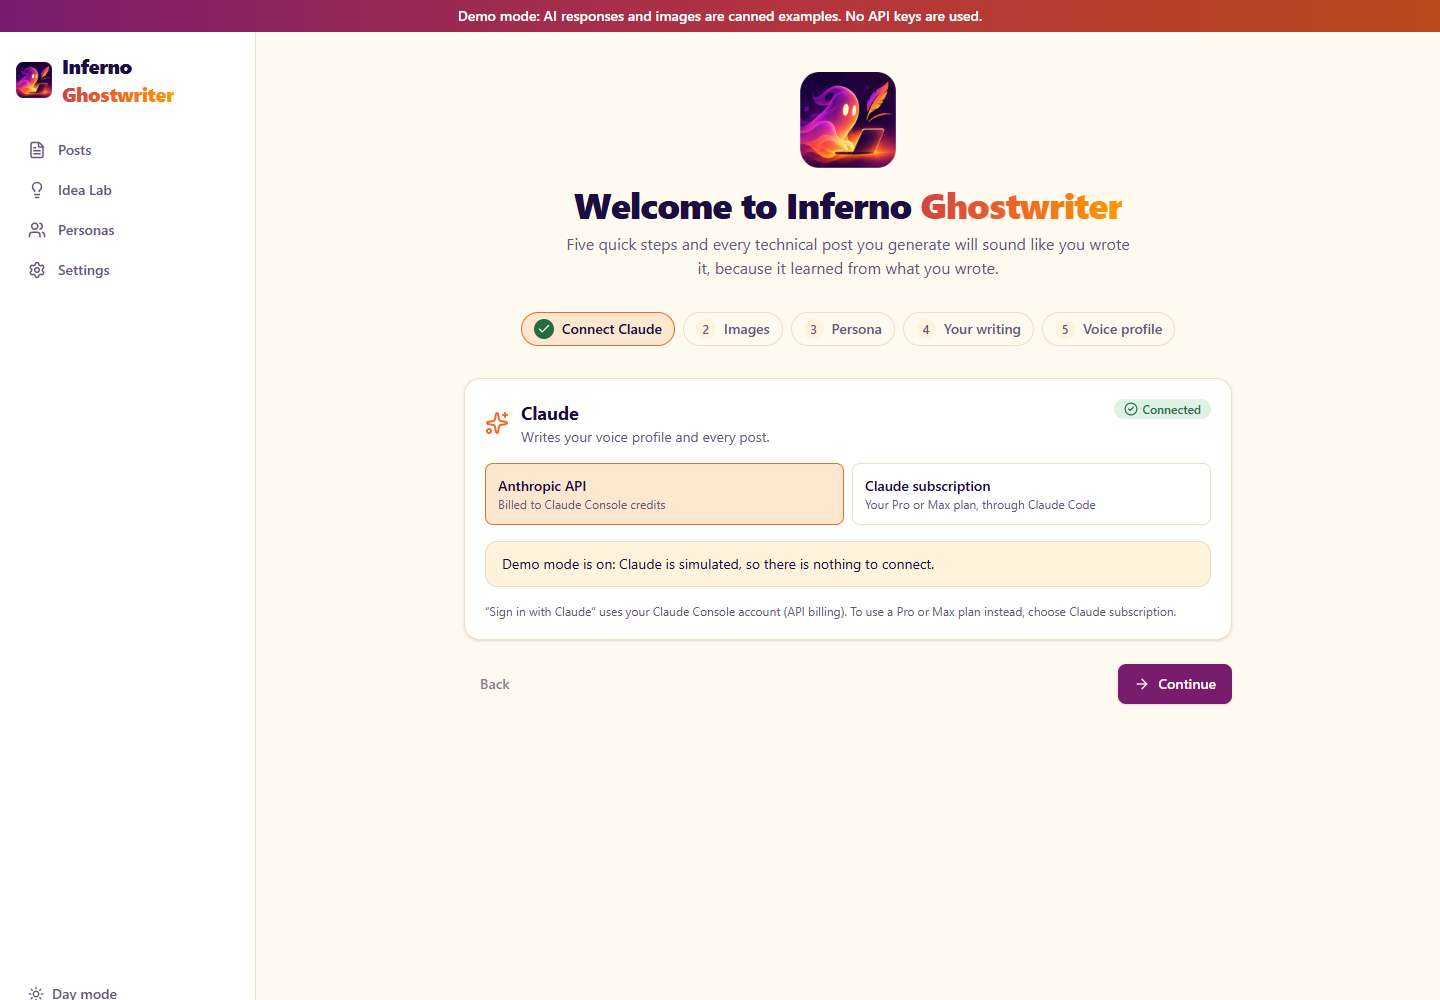
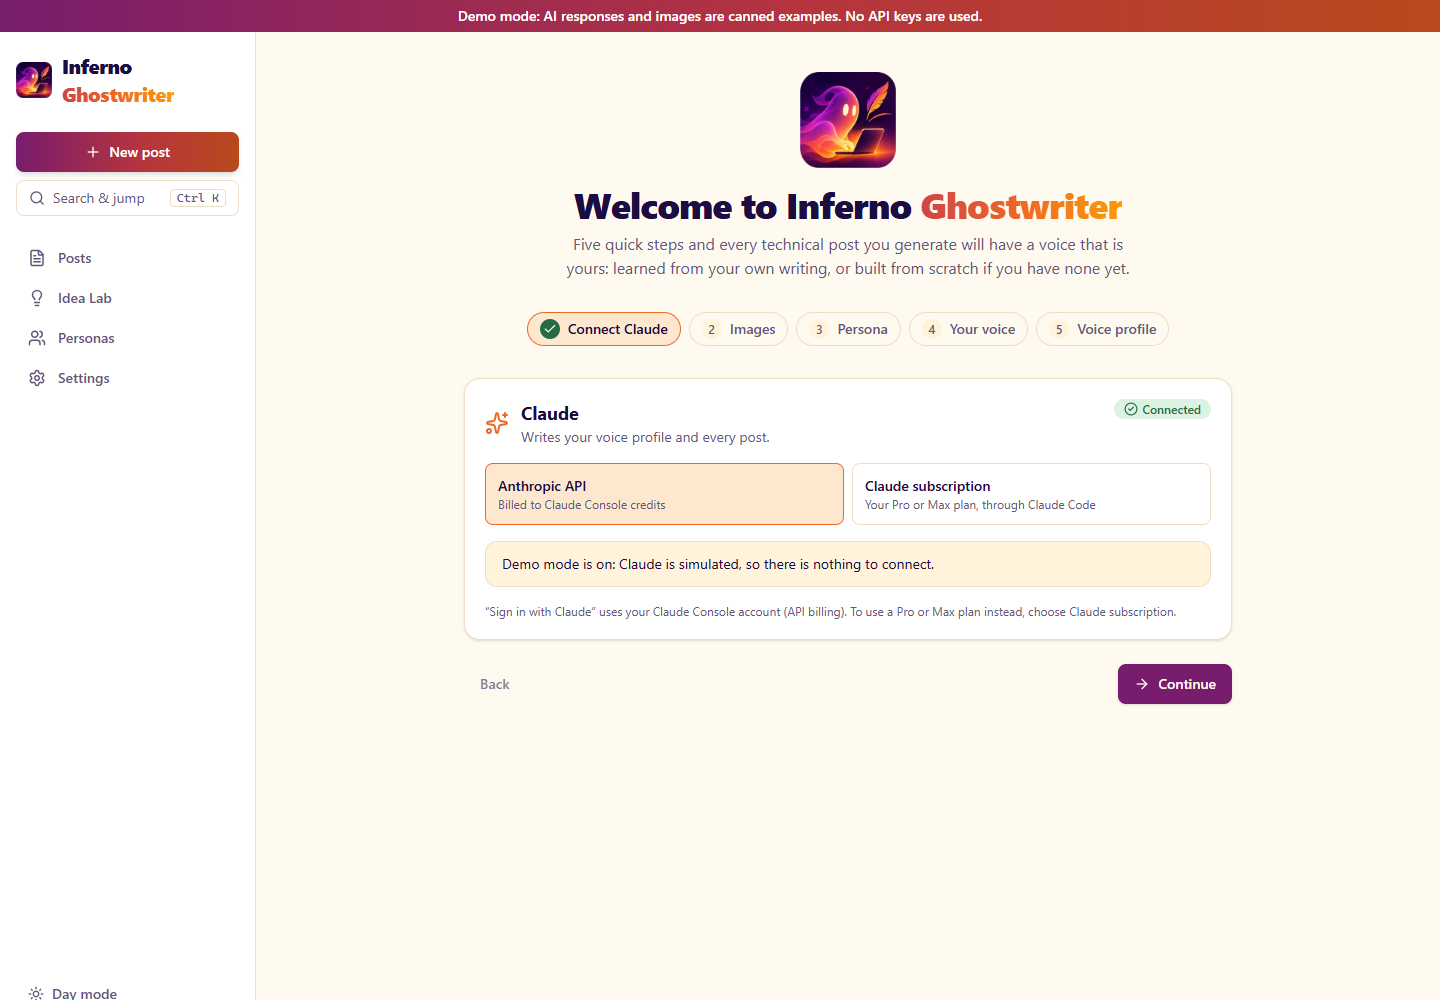
Docs: make every guide respect both onboarding journeys
Follow-up audit of the no-writing-samples work. Bring the README, getting-started,
onboarding, architecture, voice-pipeline, insights, ai-detection and CONTRIBUTING
docs in line with the "I have writing" / "I'm starting fresh" fork.

- getting-started step 8 is now "Choose your voice" with both branches; new
  screenshots for the fork and the archetype picker; refreshed welcome shot
- README: feature bullet, callout and docs index link
- onboarding: glossary (persona source, brief) and where-to-change rows
- architecture, voice-pipeline, insights, ai-detection: what changes with no posts
- New post warning now offers a ready-made voice, not only "add your writing"

diff --git a/frontend/e2e/tour.spec.ts b/frontend/e2e/tour.spec.ts
@@ -130,6 +130,8 @@ test('with no files of your own: remove the example, start from a ready-made voi
   await page.getByRole('radio', { name: /starting fresh/ }).click()
   await page.getByRole('button', { name: /Pick a voice/ }).click()
   await page.getByRole('button', { name: /The Dry-Wit Staff Engineer/ }).click()
+  await page.getByRole('radio', { name: /starting fresh/ }).scrollIntoViewIfNeeded()
+  await shot(page, 'getting-started/07b-start-fresh', { fullPage: true })
   await page.getByRole('button', { name: 'Use this voice' }).click()
 
   await page.getByRole('button', { name: 'Generate my voice profile' }).click()

diff --git a/frontend/src/pages/NewProjectPage.tsx b/frontend/src/pages/NewProjectPage.tsx
@@ -98,7 +98,7 @@ export function NewProjectPage() {
           <Notice tone="warn" title={persona ? `${persona.name} has no voice profile yet` : 'No persona is turned on'}>
             {persona ? (
               <Link className="font-semibold underline" to={`/personas/${persona.id}`}>
-                Add your writing and generate the voice profile first.
+                Add your writing or start from a ready-made voice, then generate the voice profile first.
               </Link>
             ) : (
               <Link className="font-semibold underline" to="/welcome">

diff --git a/README.md b/README.md
@@ -24,7 +24,7 @@
 
 ![Inferno Ghostwriter editor in day mode, showing a finished post with its opening image](docs/screenshots/editor-day.png)
 
-> **Just curious?** Run `launch.bat --demo` (Windows) or `./launch.sh --demo` (macOS/Linux). It opens on a finished example post with no account, no API key and no cost. **Never opened a terminal?** Follow the [step-by-step guide with screenshots](docs/getting-started.md).
+> **Just curious?** Run `launch.bat --demo` (Windows) or `./launch.sh --demo` (macOS/Linux). It opens on a finished example post with no account, no API key and no cost. **No writing samples yet?** That is fine: the setup guide can build your voice from a ready-made style, writers you admire or a short interview ([details](docs/no-writing-samples.md)). **Never opened a terminal?** Follow the [step-by-step guide with screenshots](docs/getting-started.md).
 
 ## Why not just use an AI chat?
 
@@ -60,7 +60,8 @@ It is specialized for technical writing: data science, Python, data visualizatio
 ## Features
 
 - **Learns your voice.** Upload your posts (Word, PDF, Markdown, HTML, or a URL; Medium exports are cleaned up automatically). Add writers you admire as *influences*: Inferno Ghostwriter borrows their techniques, never their identity.
-- **Voice profile.** A versioned `voice_profile.md` per persona: your soul, tone, signature moves, structure, title formulas, humor, teaching style, credibility habits, caption format, lexicon, and verbatim voice anchors, grounded in measured statistics from your writing. Regenerate or edit it any time.
+- **A voice even with no writing samples.** About half of authors start with none. Pick one of 12 ready-made voices, name writers you admire (their public work is studied for style traits, never copied), answer a short interview, or get a random one. Add your own posts any time and the voice sharpens ([details](docs/no-writing-samples.md)).
+- **Voice profile.** A versioned `voice_profile.md` per persona: your soul, tone, signature moves, structure, title formulas, humor, teaching style, credibility habits, caption format, lexicon, and verbatim voice anchors, grounded in measured statistics from your writing once you have some. Regenerate or edit it any time.
 - **Optional web research** on current best practices for titles, storytelling, skimmable structure, humor, insight, credibility and teaching.
 - **Personas.** Create several (different names, different voices); exactly one is on at a time. Switch personas and pin any earlier voice profile version from the sidebar, name versions, rename personas, or branch a version into a new, separately named persona.
 - **Idea Lab: know what to write next.** Live research reads free public feeds (vendor blogs, papers, new repositories, Hacker News, Stack Exchange, publications and newsletters, industry news) and sends out Claude web search scouts for launches, what notable practitioners are claiming, what other writers are all publishing, and what each industry is building. Brainstorm 10, 25 or 50 ideas from that research and from your own portfolio (what to build on, where to branch out), each with a title, brief, outline and the links it came from. Order them by AI suggestion, theme or source, keep sending searches to dig deeper, then write any idea, or A/B test it, in one click.
@@ -150,6 +151,7 @@ Everything stays on your computer in the `data/` folder: samples, voice profiles
 ## Documentation
 
 - [Getting started: step by step with screenshots](docs/getting-started.md)
+- [A voice without writing samples](docs/no-writing-samples.md)
 - [Onboarding for contributors](docs/onboarding.md)
 - [Architecture and repository layout](docs/architecture.md)
 - [Voice pipeline and evaluation](docs/voice-pipeline.md)

diff --git a/docs/getting-started.md b/docs/getting-started.md
@@ -96,15 +96,28 @@ A typical 1,500-word post uses a few dollars of API credit at most. In **Setting
 
 ![Creating a persona: a name and a byline for image credits](screenshots/getting-started/06-persona.png)
 
-## Step 8: Teach it your voice
+## Step 8: Choose your voice
+
+The setup guide asks where your voice should come from. Both answers are good: pick the one that fits you today. You can always change your mind or add the other later.
+
+### If you have writing: choose **I have writing to share**
 
 1. Gather **three or more** posts you have written. Word files, PDFs, Markdown, HTML, or links to the posts online all work. Medium exports are cleaned up automatically.
-2. Drag them into the box, or click to choose files, or paste a link.
+2. Drag them into the box, click to choose files, paste a link, or paste the text itself.
 3. Wait for the confirmation, such as **Added 1 sample.**
 
-   **No posts yet?** Choose **I'm starting fresh** instead and pick a ready-made voice, writers you admire, a short interview or a surprise. See [A voice without writing samples](no-writing-samples.md). You can add your own posts later.
+![Choosing where your voice comes from, and adding writing samples](screenshots/getting-started/07-add-writing.png)
 
-![Adding writing samples: drag files in, choose them, or paste a link](screenshots/getting-started/07-add-writing.png)
+### If you have none yet: choose **I'm starting fresh**
+
+1. Pick one of four ways to get a voice: **Pick a voice** (12 ready-made styles with a preview line), **Inspired by writers** (name up to four writers you admire; their public work is studied for style, never copied), **Answer a few questions** (write the way you talk), or **Surprise me** (shuffle a random voice).
+2. Click **Use this voice**.
+
+![Starting fresh: choosing a ready-made voice](screenshots/getting-started/07b-start-fresh.png)
+
+More on each path: [A voice without writing samples](no-writing-samples.md). Add your own posts later and regenerate, and the voice gets more like you.
+
+### Then, for both
 
 4. Click **Generate my voice profile**. It takes a minute. When it finishes, read it. If something is off, edit it: it is plain text, and it is yours.
 
@@ -165,7 +178,7 @@ Drop `--demo` to run the real app. If macOS says the script cannot be opened, ru
 | The browser opens on an error or does not open | Wait a minute and refresh, or open `http://127.0.0.1:8732` yourself. The black window must still be open. |
 | "Port already in use" | Another copy is running. Close its black window, or restart your computer. |
 | It says a path is too long | Move the folder closer to the drive root, such as `C:\InfernoGhostwriter`. |
-| The post does not sound like me | Add more of your own posts (five or more is better), regenerate the voice profile, and edit anything off in it. Every edit you make also teaches the persona. |
+| The post does not sound like me | Add more of your own posts (five or more is better), regenerate the voice profile, and edit anything off in it. Every edit you make also teaches the persona. If you started from a ready-made voice or an interview, a single post or pasted text of your own already helps a lot. |
 | Setup is not what you expected | Run `uv run --project backend inferno-ghostwriter doctor` and send its output when you ask for help. |
 
 ## What next

diff --git a/docs/onboarding.md b/docs/onboarding.md
@@ -109,6 +109,8 @@ npm run e2e          # Playwright, against the real backend in demo mode
 | What an A/B test's challenger changes, or how a winner is blended | `abtest/perturb.py`, `abtest/blend.py`, `abtest/service.py` | See [ab-testing.md](ab-testing.md); `uv run pytest tests/unit/test_abtest.py tests/api/test_ab_tests.py`. |
 | What images look like | `prompts/image_system.md`, `image_spec.md`, `images/service.py` | See [images.md](images.md). |
 | How a post opens (opening image styles, the judging panel, templates) | `images/opening/` (`styles.py` is the catalog), `prompts/opening_*.md` | See [opening-images.md](opening-images.md); `uv run pytest tests/unit/test_opening.py tests/api/test_opening.py`; `uv run python scripts/opening_gallery.py`. |
+| A ready-made voice (archetype) | `backend/src/inferno_ghostwriter/sample_content/archetypes.json` | See [no-writing-samples.md](no-writing-samples.md); `uv run pytest tests/api/test_voice_sources.py`. |
+| How a persona with no writing gets its voice (interview, writers, surprise) | `voice/sources.py`, `prompts/persona_research*.md`, `frontend/src/components/VoiceStart.tsx`, `lib/onboarding.ts` | Same; run the `with no files of your own` e2e test. |
 | A screen | `frontend/src/pages/` | Check day and night mode. |
 | Colors | `frontend/src/index.css` tokens only | Never raw colors in components. |
 | An API endpoint | `backend/src/inferno_ghostwriter/api/` plus a model in `api/schemas.py` | `uv run python scripts/export_types.py`, then add a payload to `demo.py` for any new structured output. |
@@ -120,6 +122,8 @@ npm run e2e          # Playwright, against the real backend in demo mode
 
 - **Persona**: one writing voice with its own samples and voice profile. Exactly one is **on** at a time.
 - **Sample**: a post you give Inferno Ghostwriter to learn from. *Own* samples define your voice; *influence* samples are writers you admire, whose techniques (not identity) are borrowed.
+- **Persona source**: where a persona's voice starts when it has no posts of its own: an *archetype* (a bundled ready-made voice), a *blend* of named writers, an *interview*, or a *random* pick. `Persona.source`, default `samples`.
+- **Persona brief**: the text a source turns into (an archetype's description, research on named writers, interview answers) that voice synthesis reads next to any sample analyses.
 - **Voice profile**: the generated, versioned `voice_profile.md` describing how a persona writes. Regenerate it, edit it, name versions, or pin an old one.
 - **Dials**: per-post settings (length, images, humor, education level, formality, technical depth...). The 0-10 style dials are relative to the author: 5 means "as they write".
 - **Exemplars**: the most similar of your own posts, included in full as examples when drafting.

diff --git a/docs/architecture.md b/docs/architecture.md
@@ -54,7 +54,8 @@ flowchart TB
 | `export/` | HTML/Markdown rendering and platform bundles, including the LinkedIn carousel (PDF + PPTX) and the X Article teaser post. |
 | `prompts/` | All prompts as Markdown templates. |
 | `demo.py` | Fake Claude used by tests and `--demo`. |
-| `example.py`, `sample_content/` | The offline "Sample Author" example persona and the bundled sample posts that let a first run work with no files (see below). |
+| `example.py`, `sample_content/` | The offline "Sample Author" example persona, the bundled sample posts and the ready-made voice archetypes (`archetypes.json`) that let a first run work with no files (see below). |
+| `voice/sources.py` | Voices for authors with no writing: validates a persona's chosen source and turns it into the persona brief for voice synthesis (see [no-writing-samples.md](no-writing-samples.md)). |
 | `personas.py` | Persona helpers shared by the routes and the example seeding (add a sample, delete a persona). |
 | `doctor.py` | `inferno-ghostwriter doctor`: machine checks with a fix for each problem, and the first-launch demo offer. |
 
@@ -77,7 +78,7 @@ backend/                           FastAPI + uv (Python 3.13)
     export/     Medium, Substack, LinkedIn (carousel PDF/PPTX), X Article, Gumroad (PDF), Markdown/Word bundles
     llm/        Claude client, sign-in resolution
     prompts/    Every prompt, as readable Markdown
-    sample_content/  Bundled sample posts and the example voice profile
+    sample_content/  Bundled sample posts, ready-made voice archetypes and the example voice profile
   tests/        pytest (fake Claude)
   evals/        Voice-fidelity and AI-detection evals (real API, opt-in)
 frontend/                          React 19 + Vite + Tailwind CSS 4

diff --git a/docs/voice-pipeline.md b/docs/voice-pipeline.md
@@ -44,6 +44,8 @@ When a persona has web research turned on, Claude searches for current guidance 
 
 ## 5. Voice profile
 
+> **No writing samples?** A persona can start from a chosen source instead (a ready-made voice, named writers, an interview or a random pick; see [no-writing-samples.md](no-writing-samples.md)). `voice/sources.py` turns it into a persona brief that goes into the synthesis prompt as `$persona_brief`, and `$mode_note` tells Claude there is no verbatim evidence: Voice Anchors become labeled illustrative lines, structure targets are ranges, and nothing is measured. A blend's web research is cached on the persona until the writers change and its sources are saved with the voice profile version. Steps 1-3 are skipped for such a persona; once it has its own posts they run as usual and its own writing decides identity.
+
 `prompts/voice_synthesize.md` turns the baseline, analyses and research into `voice_profile.md` with fixed sections: Soul · Voice & Tone · Signature Moves · Structure Blueprint · Titles & Subtitles · Humor · Teaching Style · Credibility & Trust · Images & Captions (including a one-line **visual style** for generated images) · Lexicon (including a *never use* list of generic AI-writing tells) · Do / Don't · Voice Anchors (verbatim passages).
 
 Every version is kept. Editing it in the app saves a new version. The synthesis also sees what Inferno Ghostwriter has learned from your edits (below), so the next version's Lexicon and Do / Don't reflect it.

diff --git a/docs/ai-detection.md b/docs/ai-detection.md
@@ -13,7 +13,7 @@ The same checks also steer the writing: after the editor's pass, a **humanize** 
 
 ## How it is scored
 
-Four parts, each compared with **your own posts** (`backend/src/inferno_ghostwriter/authenticity/`). The weights are 40 / 30 / 15 / 15. When a part does not run, its weight is shared out among the others.
+Four parts, each compared with **your own posts** (`backend/src/inferno_ghostwriter/authenticity/`). The weights are 40 / 30 / 15 / 15. When a part does not run, its weight is shared out among the others. A persona with no posts of its own (see [no-writing-samples.md](no-writing-samples.md)) has nothing to compare with, so the twin test is skipped and the rest are scored against a generic human range until you add posts.
 
 1. **Detectors** (`local_detector.py`, `light_detector.py`, `detector_worker.py`). Pick any mix in Settings; each runs on your computer and scores every post against your own range (the average weights the light check half as much as a trained model):
    - **the light check** (default, built in): instant, no download. It reads what language models smooth out: even sentence lengths, few personal markers (contractions, "I" and "you", questions, asides), little concrete detail and repeated openings. A rougher signal than the trained models, so select one of them as well for a firmer read;

diff --git a/CONTRIBUTING.md b/CONTRIBUTING.md
@@ -11,7 +11,7 @@ scripts/setup.sh       # macOS / Linux
 
 This installs [uv](https://docs.astral.sh/uv/) (Python 3.13 and the backend environment) and [Node.js](https://nodejs.org) 22 LTS if you agree, installs all packages, and finishes by running `inferno-ghostwriter doctor`, which tells you how to fix anything still missing. Re-run it any time; it is safe to repeat. The [Anthropic CLI](https://github.com/anthropics/anthropic-cli/releases) is optional, only for testing *Sign in with Claude*.
 
-You do **not** need API keys or any writing of your own to develop: demo mode and the test suite use a fake Claude and a fake image model, and the app ships with sample posts and an example persona.
+You do **not** need API keys or any writing of your own to develop: demo mode and the test suite use a fake Claude and a fake image model, and the app ships with sample posts and an example persona. Many real users have no writing samples either, so keep that journey working too: see [docs/no-writing-samples.md](docs/no-writing-samples.md).
 
 ## Run it
 

diff --git a/docs/insights.md b/docs/insights.md
@@ -15,7 +15,7 @@ Every persona has an **Insights** tab (Personas → a persona → Insights, or `
 | Formula flow (Sankey) | The formula of every post with text | no |
 | Track record | Posts, images, references, scores, edit lessons | no |
 
-The measured cards work as soon as a persona has samples. A persona with no samples and no posts shows one empty state that links to the samples tab.
+The measured cards work as soon as a persona has samples. A persona with no samples and no posts shows one empty state that links to the samples tab. A persona that started from a ready-made voice, writers or an interview has no digest or voice mix either (they are measured on your own sentences) until you add your own posts and refresh the insights.
 
 ## The digest
 
